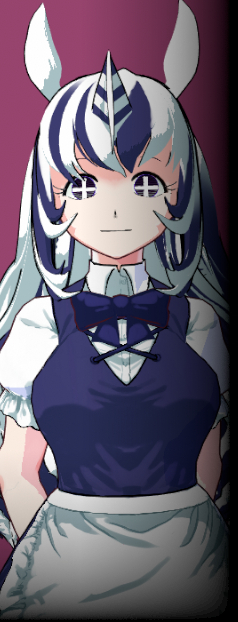
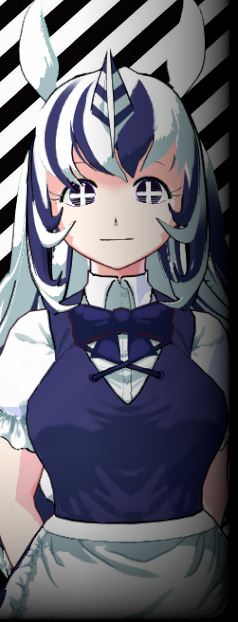
リロード、画像追加

diff --git a/docs/ygg/supplement_munmun/page/setting/facility/facility_zebra diner.html b/docs/ygg/supplement_munmun/page/setting/facility/facility_zebra diner.html
@@ -162,7 +162,7 @@
 	</tr>
 	<tr valign="top">
 		<td width="238" height="622">
-			<img border="0" alt="" src="../image/npc_no_image.png">
+			<img border="0" alt="" src="../image/npc_no.8.jpg">
 		</td>
 		<td>
 			<table border="0">
